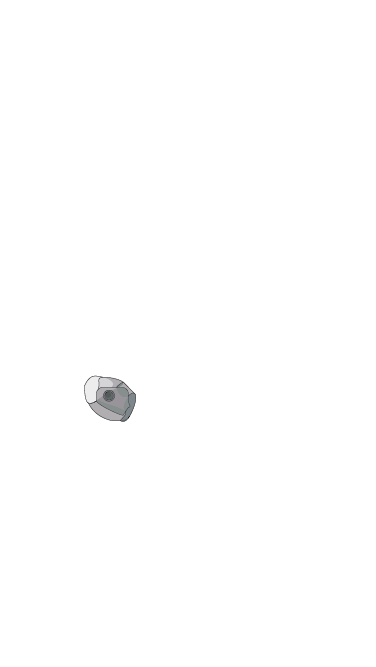
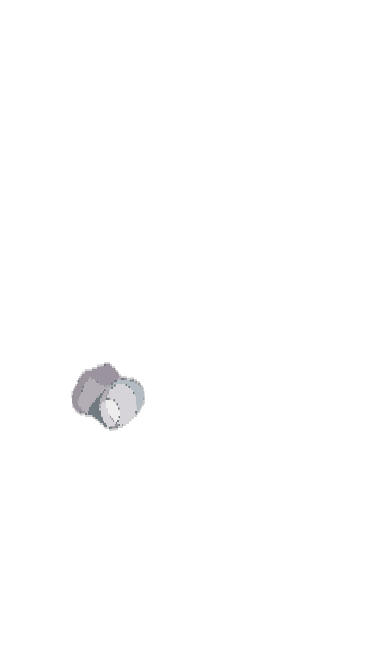
rocket bigger

Changed region(s): [[0.1755, 0.5397, 0.3803, 0.6597]]

diff --git a/Psyche_Game/Psyche_Game/GameView.xaml.cs b/Psyche_Game/Psyche_Game/GameView.xaml.cs
@@ -59,8 +59,9 @@ namespace Psyche_Game
 
                 //ship
                 ship = new Ship();
-                ship.PositionX = 200;
-                ship.PositionY = 50;
+                ship.PositionX = ((App.Width) / 2);
+                ship.PositionY = ((App.Height) / 4);
+                
                 _layer.AddChild(ship);
 
 
@@ -96,7 +97,7 @@ namespace Psyche_Game
                 };*/
                // _layer.AddChild(slowstars);
 
-                fire = new CCParticleFire(new CCPoint(200, 50))
+                fire = new CCParticleFire(new CCPoint(((App.Width) / 2), ((App.Height) / 4)))
                 {
                     StartSize = 1,
                     Angle = 270,
@@ -143,16 +144,27 @@ namespace Psyche_Game
             {
                 // Perform touch handling here
             }
+            if (touches[0].Location.X > (App.Height/2) )
+            {
+                //ship.PositionX -= 150;
+            }
+            else if (touches[0].Location.X < (App.Height/2) )
+            {
+                //ship.PositionX += 150;
+            }
+
         }
 
         void HandleTouchesMoved(System.Collections.Generic.List<CCTouch> touches, CCEvent touchEvent)
         {
             // we only care about the first touch:
+            
             var locationOnScreen = touches[0].Location;
             ship.PositionX = locationOnScreen.X;
-            ship.PositionY = locationOnScreen.Y;
+            //ship.PositionY = locationOnScreen.Y;
             fire.PositionX = locationOnScreen.X;
-            fire.PositionY = locationOnScreen.Y;
+            //fire.PositionY = locationOnScreen.Y;
+            
         }
     }
 }

diff --git a/Psyche_Game/Psyche_Game/Entities/Ship.cs b/Psyche_Game/Psyche_Game/Entities/Ship.cs
@@ -9,12 +9,13 @@ namespace Psyche_Game
     {
         CCSprite sprite;
 
+
         public Ship() : base()
         {
             sprite = new CCSprite("rocket.png");
             // Center the Sprite in this entity to simplify
             // centering the Ship when it is instantiated
-            sprite.Scale = 0.25F;
+            sprite.Scale = 0.5F;
             sprite.AnchorPoint = CCPoint.AnchorMiddleBottom;
             this.AddChild(sprite);
 
